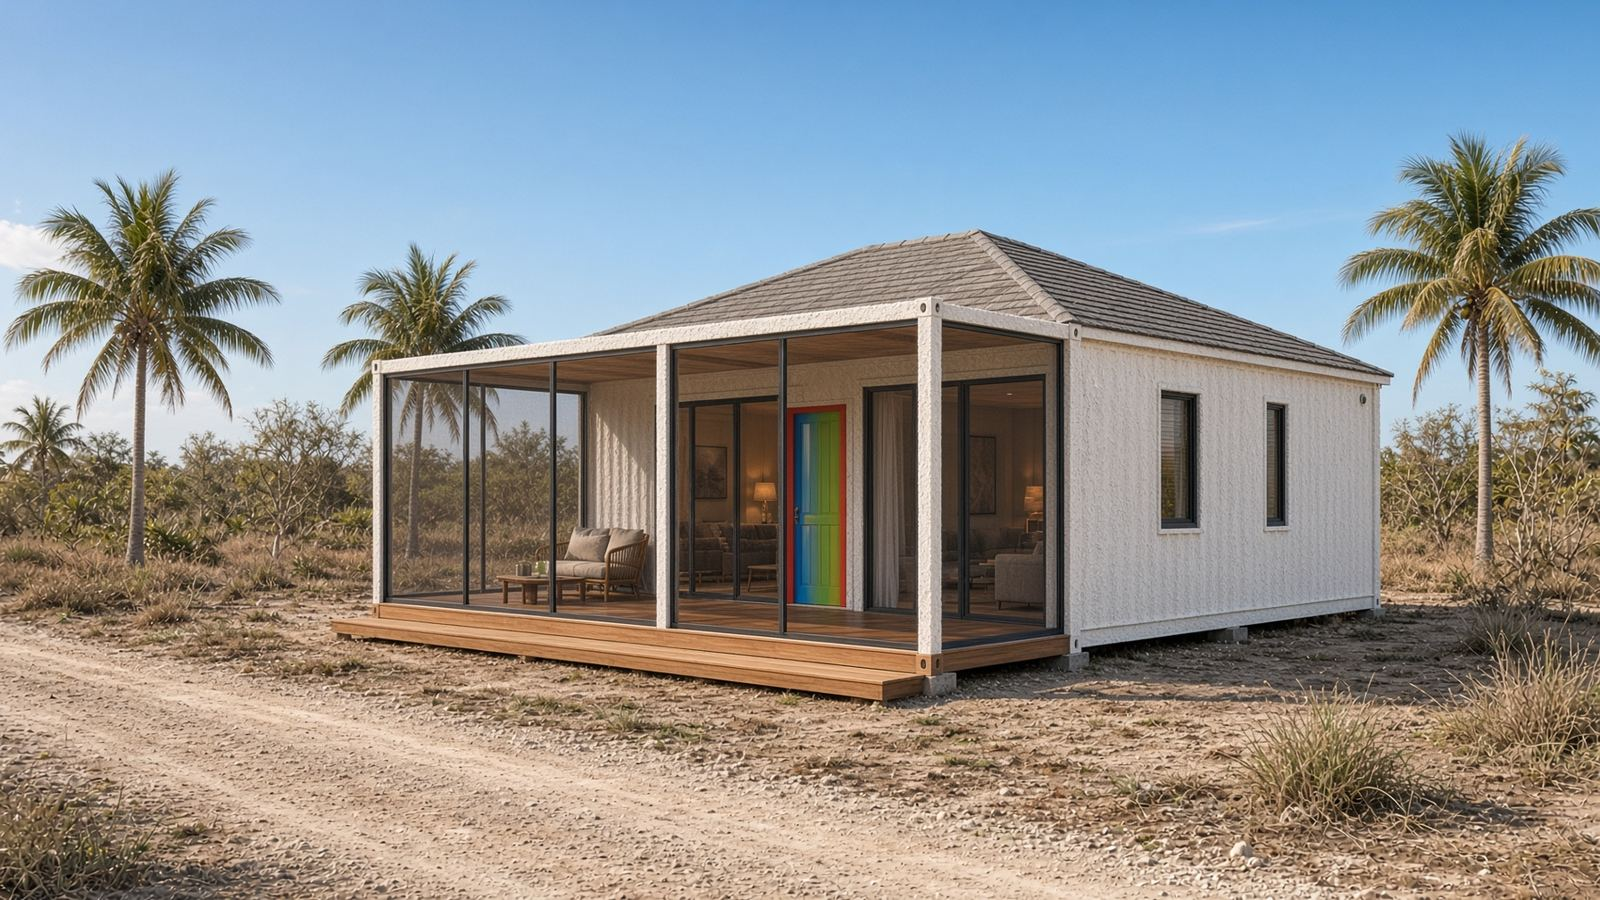
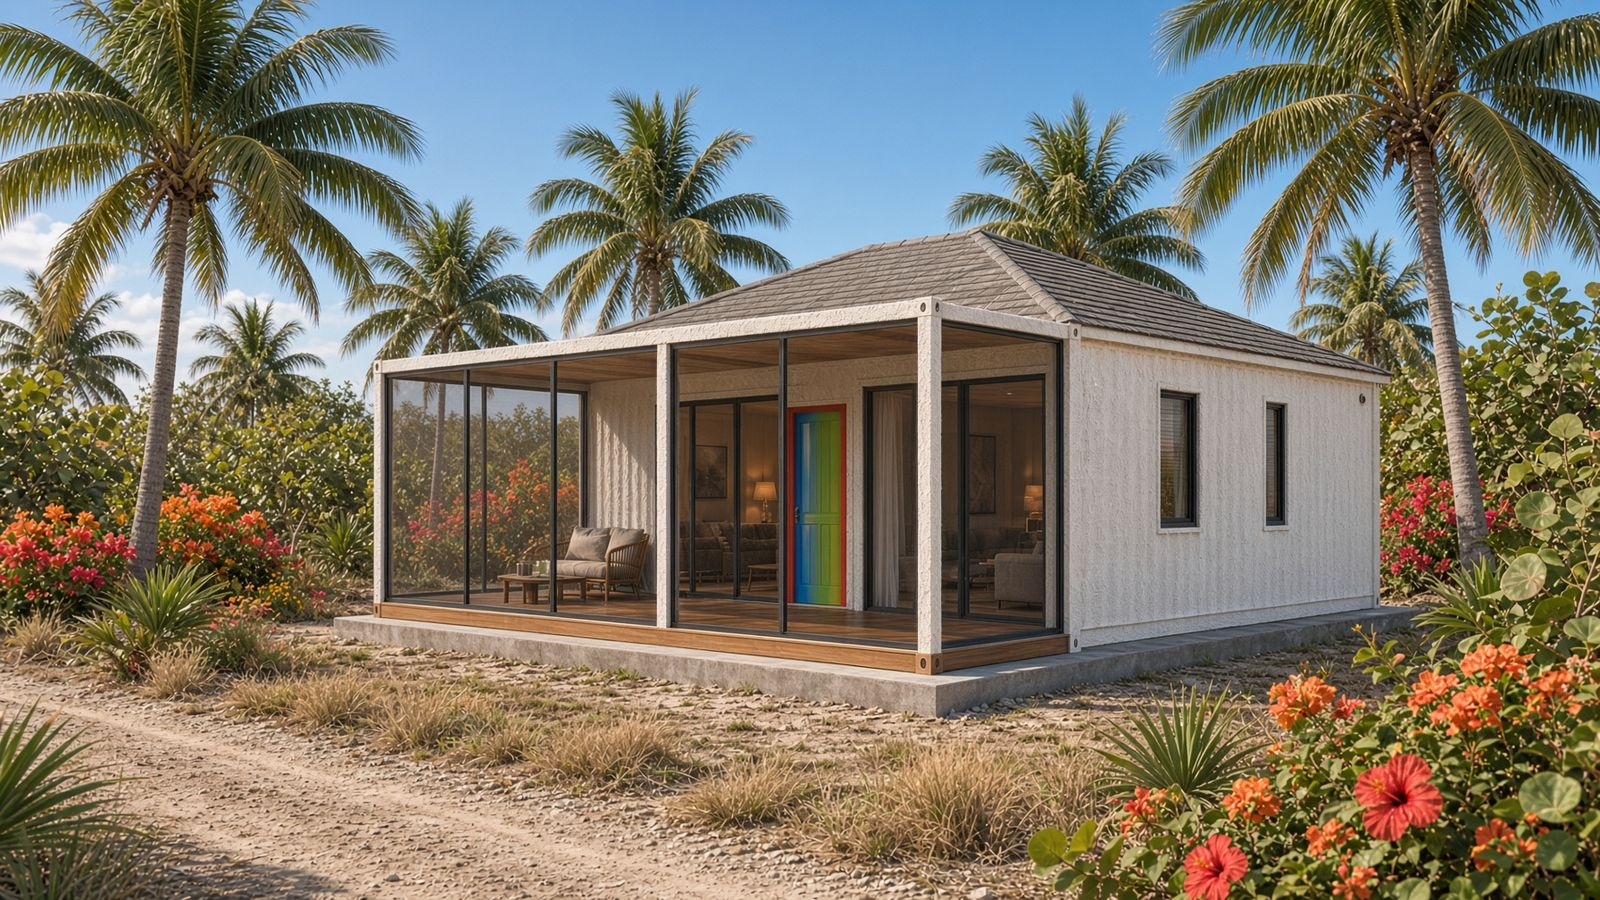
Sit homes on concrete slabs with Belize landscaping and drop shell/labor markups from the customer BOQ.

diff --git a/public/canal-homes/lot-127/index.html b/public/canal-homes/lot-127/index.html
@@ -36,14 +36,14 @@
         <div><strong>2 bed / 1 bath</strong><span>Two-story gable · 646 sf</span></div>
         <div><strong>400 sf deck</strong><span>Screened · looks at Lot 115</span></div>
         <div><strong>PT200009</strong><span>Ships in 1 × 40HQ</span></div>
-        <div><strong>$205,765</strong><span>All-in furnished, USD</span></div>
+        <div><strong>$192,965</strong><span>All-in furnished, USD</span></div>
       </div>
     </section>
 
     <section id="home" class="wrap" style="padding-top:0">
       <figure class="hero-img">
         <img src="images/home.jpg" alt="Two-story salt-white gable home inland of a dirt road, looking at Lot 115" />
-        <figcaption>Outside · Lot 127 · dry inland lot, dirt road, Lot 115 across the street</figcaption>
+        <figcaption>Outside · Lot 127 · concrete slab, palms, dirt road, Lot 115 across the street</figcaption>
       </figure>
       <figure class="wide">
         <img src="images/pair.jpg" alt="Dirt road between Lot 127 inland and Lot 115 on the canal" />
@@ -76,31 +76,31 @@
       <div class="styles">
         <figure class="picked">
           <img src="images/pt200009.jpg" alt="PT200009 two-story gable inland" />
-          <figcaption><strong>PT200009 · Two-story gable</strong>2BR / 1BA · 646 sf<br />$205,765 · featured</figcaption>
+          <figcaption><strong>PT200009 · Two-story gable</strong>2BR / 1BA · 646 sf<br />$192,965 · featured</figcaption>
         </figure>
         <figure>
           <img src="images/pt211222.jpg" alt="PT211222 hip roof inland" />
-          <figcaption><strong>PT211222 · Hip roof</strong>2BR / 2BA · 581 sf<br />$196,835</figcaption>
+          <figcaption><strong>PT211222 · Hip roof</strong>2BR / 2BA · 581 sf<br />$182,785</figcaption>
         </figure>
         <figure>
           <img src="images/pt220348-2.jpg" alt="PT220348-2 skillion long inland" />
-          <figcaption><strong>PT220348-2 · Skillion long</strong>2BR / 1BA · 635 sf<br />$189,390</figcaption>
+          <figcaption><strong>PT220348-2 · Skillion long</strong>2BR / 1BA · 635 sf<br />$177,715</figcaption>
         </figure>
         <figure>
           <img src="images/pt220348-3.jpg" alt="PT220348-3 skillion terrace inland" />
-          <figcaption><strong>PT220348-3 · Skillion terrace</strong>2BR / 1BA · 473 sf<br />$192,990</figcaption>
+          <figcaption><strong>PT220348-3 · Skillion terrace</strong>2BR / 1BA · 473 sf<br />$180,115</figcaption>
         </figure>
         <figure>
           <img src="images/pt220348-1.jpg" alt="PT220348-1 compact terrace inland" />
-          <figcaption><strong>PT220348-1 · Compact 1BR</strong>1BR / 1BA · 312 sf<br />$178,393</figcaption>
+          <figcaption><strong>PT220348-1 · Compact 1BR</strong>1BR / 1BA · 312 sf<br />$167,918</figcaption>
         </figure>
         <figure>
           <img src="images/pt210223-2.jpg" alt="PT210223-2 carport inland" />
-          <figcaption><strong>PT210223-2 · Carport</strong>2BR / 1BA · 635 sf<br />$194,212</figcaption>
+          <figcaption><strong>PT210223-2 · Carport</strong>2BR / 1BA · 635 sf<br />$182,912</figcaption>
         </figure>
         <figure>
           <img src="images/pt190249.jpg" alt="PT190249 two-story stair inland" />
-          <figcaption><strong>PT190249 · Two-story stair</strong>1BR / 1BA · 646 sf<br />$200,452</figcaption>
+          <figcaption><strong>PT190249 · Two-story stair</strong>1BR / 1BA · 646 sf<br />$185,902</figcaption>
         </figure>
       </div>
     </section>
@@ -122,16 +122,16 @@
     <section id="price" class="wrap" style="padding-top:0">
       <aside class="price">
         <p class="kicker">All-in · PT200009 · furnished</p>
-        <p class="num">$205,765</p>
+        <p class="num">$192,965</p>
         <ul>
-          <li><span>Factory shell unfurnished +50%</span><span>$26,250</span></li>
+          <li><span>Factory shell unfurnished</span><span>$17,500</span></li>
           <li><span>Ocean freight (1 / 40HQ)</span><span>$19,000</span></li>
           <li><span>Inland + duties</span><span>$5,000</span></li>
           <li><span>Slab, excavation, MEP</span><span>$35,000</span></li>
           <li><span>Tie-downs + stack crane</span><span>$6,000</span></li>
           <li><span>Contingency</span><span>$20,000</span></li>
           <li><span>400 sf screened deck + fence</span><span>$33,900</span></li>
-          <li><span>Stack + set labor +30%</span><span>$17,550</span></li>
+          <li><span>Stack + set labor</span><span>$13,500</span></li>
           <li><span>FF&E kit M</span><span>$13,065</span></li>
           <li><span>Fully furnished / install</span><span>$30,000</span></li>
         </ul>

diff --git a/public/canal-homes/lot-115/index.html b/public/canal-homes/lot-115/index.html
@@ -37,14 +37,14 @@
         <div><strong>2 bed / 2 bath</strong><span>Hip roof · 581 sf</span></div>
         <div><strong>400 sf deck</strong><span>Screened · looks at canal</span></div>
         <div><strong>PT211222</strong><span>Ships in 2 × 40HQ</span></div>
-        <div><strong>$196,835</strong><span>All-in furnished, USD</span></div>
+        <div><strong>$182,785</strong><span>All-in furnished, USD</span></div>
       </div>
     </section>
 
     <section id="home" class="wrap" style="padding-top:0">
       <figure class="hero-img">
         <img src="images/home.jpg" alt="Salt-white hip-roof home on the canal with screened teak deck" />
-        <figcaption>Outside · Lot 115 · screened porch on the canal bank</figcaption>
+        <figcaption>Outside · Lot 115 · concrete slab, palms, screened porch on the canal bank</figcaption>
       </figure>
       <figure class="wide">
         <img src="images/pair.jpg" alt="Dirt road between Lot 127 inland and Lot 115 on the canal" />
@@ -77,31 +77,31 @@
       <div class="styles">
         <figure class="picked">
           <img src="images/pt211222.jpg" alt="PT211222 hip roof on the canal" />
-          <figcaption><strong>PT211222 · Hip roof</strong>2BR / 2BA · 581 sf<br />$196,835 · featured</figcaption>
+          <figcaption><strong>PT211222 · Hip roof</strong>2BR / 2BA · 581 sf<br />$182,785 · featured</figcaption>
         </figure>
         <figure>
           <img src="images/pt220348-2.jpg" alt="PT220348-2 skillion long on the canal" />
-          <figcaption><strong>PT220348-2 · Skillion long</strong>2BR / 1BA · 635 sf<br />$189,390</figcaption>
+          <figcaption><strong>PT220348-2 · Skillion long</strong>2BR / 1BA · 635 sf<br />$177,715</figcaption>
         </figure>
         <figure>
           <img src="images/pt220348-3.jpg" alt="PT220348-3 skillion terrace on the canal" />
-          <figcaption><strong>PT220348-3 · Skillion terrace</strong>2BR / 1BA · 473 sf<br />$192,990</figcaption>
+          <figcaption><strong>PT220348-3 · Skillion terrace</strong>2BR / 1BA · 473 sf<br />$180,115</figcaption>
         </figure>
         <figure>
           <img src="images/pt220348-1.jpg" alt="PT220348-1 compact terrace on the canal" />
-          <figcaption><strong>PT220348-1 · Compact 1BR</strong>1BR / 1BA · 312 sf<br />$178,393</figcaption>
+          <figcaption><strong>PT220348-1 · Compact 1BR</strong>1BR / 1BA · 312 sf<br />$167,918</figcaption>
         </figure>
         <figure>
           <img src="images/pt210223-2.jpg" alt="PT210223-2 carport on the canal" />
-          <figcaption><strong>PT210223-2 · Carport</strong>2BR / 1BA · 635 sf<br />$194,212</figcaption>
+          <figcaption><strong>PT210223-2 · Carport</strong>2BR / 1BA · 635 sf<br />$182,912</figcaption>
         </figure>
         <figure>
           <img src="images/pt190249.jpg" alt="PT190249 two-story stair on the canal" />
-          <figcaption><strong>PT190249 · Two-story stair</strong>1BR / 1BA · 646 sf<br />$200,452</figcaption>
+          <figcaption><strong>PT190249 · Two-story stair</strong>1BR / 1BA · 646 sf<br />$185,902</figcaption>
         </figure>
         <figure>
           <img src="images/pt200009.jpg" alt="PT200009 two-story gable on the canal" />
-          <figcaption><strong>PT200009 · Two-story gable</strong>2BR / 1BA · 646 sf<br />$205,765</figcaption>
+          <figcaption><strong>PT200009 · Two-story gable</strong>2BR / 1BA · 646 sf<br />$192,965</figcaption>
         </figure>
       </div>
     </section>
@@ -123,16 +123,16 @@
     <section id="price" class="wrap" style="padding-top:0">
       <aside class="price">
         <p class="kicker">All-in · PT211222 · furnished</p>
-        <p class="num">$196,835</p>
+        <p class="num">$182,785</p>
         <ul>
-          <li><span>Factory shell unfurnished +50%</span><span>$34,500</span></li>
+          <li><span>Factory shell unfurnished</span><span>$23,000</span></li>
           <li><span>Ocean freight (2 / 40HQ)</span><span>$9,500</span></li>
           <li><span>Inland + duties</span><span>$5,000</span></li>
           <li><span>Slab, excavation, MEP</span><span>$35,000</span></li>
           <li><span>Tie-downs + crane</span><span>$4,500</span></li>
           <li><span>Contingency</span><span>$20,000</span></li>
           <li><span>400 sf screened deck + fence</span><span>$33,900</span></li>
-          <li><span>Set labor +30%</span><span>$11,050</span></li>
+          <li><span>Set labor</span><span>$8,500</span></li>
           <li><span>FF&E kit L</span><span>$13,385</span></li>
           <li><span>Fully furnished / install</span><span>$30,000</span></li>
         </ul>

diff --git a/src/components/QuoteStudio.tsx b/src/components/QuoteStudio.tsx
@@ -102,7 +102,7 @@ export function QuoteStudio() {
             <p className="mt-1 text-sm text-muted">Pair on lots 115 + 127 · {usd(pairTotal(style))}</p>
             <dl className="mt-6 space-y-2 text-sm">
               {[
-                ["Factory shell unfurnished +50%", factoryOnSite(style)],
+                ["Factory shell unfurnished", factoryOnSite(style)],
                 ["Ocean freight China → Belize", style.freight],
                 ["Inland + duties", style.inland],
                 ["Slab, excavation, MEP", PRICE.slabMep],
@@ -111,8 +111,8 @@ export function QuoteStudio() {
                 ["Subtotal shell", shellSubtotal(style)],
                 ["Contingency", PRICE.contingency],
                 ["400 sf screened deck + fence", SITEWORK.exterior],
-                [style.story === "Two-story" ? "Labor +30% (stack + set)" : "Labor +30% (set)", labor],
-                [`FF&E kit ${style.kit} + furnished $30k`, ffe],
+                [style.story === "Two-story" ? "Labor (stack + set)" : "Labor (set)", labor],
+                [`FF&E kit ${style.kit} fully furnished`, ffe],
               ].map(([label, n]) => (
                 <div key={String(label)} className="flex justify-between gap-4">
                   <dt className="text-muted">{label}</dt>

diff --git a/src/lib/quote.ts b/src/lib/quote.ts
@@ -61,12 +61,10 @@ export const SITEWORK = {
   laborStack: 13500,
 };
 
-/** Quote uplifts requested for lots 115 / 127 presentations. */
+/** Customer-facing site numbers. Do not show internal markups on the BOQ. */
 export const PRICE = {
   slabMep: 35000,
   contingency: 20000,
-  shellUplift: 1.5,
-  laborUplift: 1.3,
   ffeFurnished: 30000,
 };
 
@@ -347,7 +345,7 @@ export const STYLES: QuoteStyle[] = [
 ];
 
 export function factoryOnSite(s: QuoteStyle) {
-  return Math.round(s.factory * PRICE.shellUplift);
+  return s.factory;
 }
 
 export function shellSubtotal(s: QuoteStyle) {
@@ -355,8 +353,7 @@ export function shellSubtotal(s: QuoteStyle) {
 }
 
 export function laborFor(s: QuoteStyle) {
-  const base = s.story === "Two-story" ? SITEWORK.laborStack : SITEWORK.laborSingle;
-  return Math.round(base * PRICE.laborUplift);
+  return s.story === "Two-story" ? SITEWORK.laborStack : SITEWORK.laborSingle;
 }
 
 export function ffeFor(s: QuoteStyle) {

diff --git a/public/canal-homes/index.html b/public/canal-homes/index.html
@@ -12,8 +12,8 @@
     <h1>Two separate customer presentations</h1>
     <p class="lede">Send each customer only their link. They do not see the other house or price.</p>
     <div class="facts" style="margin-top:28px">
-      <div><strong><a href="lot-115/">Lot 115 · canal</a></strong><span>PT211222 · $196,835 furnished</span></div>
-      <div><strong><a href="lot-127/">Lot 127 · inland of the road</a></strong><span>PT200009 · $205,765 furnished</span></div>
+      <div><strong><a href="lot-115/">Lot 115 · canal</a></strong><span>PT211222 · $182,785 furnished</span></div>
+      <div><strong><a href="lot-127/">Lot 127 · inland of the road</a></strong><span>PT200009 · $192,965 furnished</span></div>
     </div>
   </main>
 </body>
